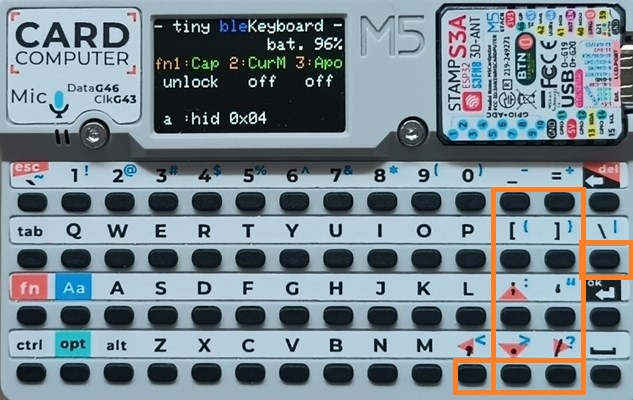
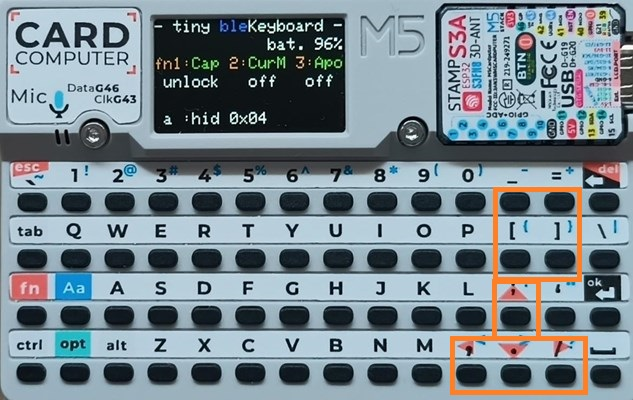
v102

Changed region(s): [[0.6904, 0.45, 1.0, 0.99]]

diff --git a/src/main.cpp b/src/main.cpp
@@ -1,7 +1,7 @@
 // --------------------------------------------------------
-//  *** tiny bleKeyboard ***
+//  *** tiny bleKeyboard ***     by NoRi
 //  bluetooth keyboard software for Cardputer
-//   2025-06-07 by NoRi
+//   2025-06-08  v102
 // https://github.com/NoRi-230401/tiny-bleKeyboard-Cardputer
 //  MIT License
 // --------------------------------------------------------
@@ -92,7 +92,7 @@ static bool warnDispFlag = true;
 static uint8_t consecutiveLowBatteryCount = 0;
 static unsigned long lowBatteryWarnStartTimeMs = 0;
 const uint8_t LOW_BATTERY_CONSECUTIVE_READINGS = 3;
-const uint8_t LOW_BATTERY_LEVEL_THRESHOLD = 10;  // % : define LOW BATTERY lvl
+const uint8_t LOW_BATTERY_LEVEL_THRESHOLD = 10; // % : define LOW BATTERY lvl
 
 // --- hid key-code define ----
 const uint8_t HID_UPARROW = 0x52;
@@ -124,7 +124,9 @@ const std::map<uint8_t, uint8_t> fnKeyExclusiveMappings = {
     {0x24, HID_F7},     // '7' -> F7
     {0x25, HID_F8},     // '8' -> F8
     {0x26, HID_F9},     // '9' -> F9
-    {0x27, HID_F10}     // '0' -> F10
+    {0x27, HID_F10},    // '0' -> F10
+    {0x31, HID_INS},    // '\' -> Insert
+    {0x34, HID_PRINTSC} // ''' -> Print Screen
 };
 
 // generalNavigationMappings: Mappings used in combination with Fn key (if not in exclusive) or in cursor mode
@@ -136,9 +138,7 @@ const std::map<uint8_t, uint8_t> generalNavigationMappings = {
     {0x2d, HID_HOME},       // '-' -> Home
     {0x2f, HID_END},        // '[' -> End
     {0x2e, HID_PAGEUP},     // '=' -> Page Up
-    {0x30, HID_PAGEDOWN},   // ']' -> Page Down
-    {0x31, HID_INS},        // '\' -> Insert
-    {0x34, HID_PRINTSC}     // ''' -> Print Screen
+    {0x30, HID_PAGEDOWN}    // ']' -> Page Down
 };
 // --------------------------------------
 
@@ -151,7 +151,6 @@ const int COL_CURSORMODE = 10;           // "CurM" display start position
 const int COL_APO = 15;                  // "Apo" display start position
 const int COL_BATVAL = 16;               // Battery value display start position
 const int WIDTH_BATVAL_LEN = 3;          // Battery value display length
-
 
 void setup()
 {
@@ -925,7 +924,6 @@ bool rdNVS(const char *title, uint8_t &data)
   return false;
 }
 
-
 enum PowerSaveFSM
 {
   PS_NORMAL,
@@ -959,7 +957,7 @@ void powerSaveAndDisp()
     {
       psState = PS_LOW_BATTERY_WARN;
       lowBatteryWarnStartTimeMs = currentTime;
-      warnDispFlag = true; // To show message first
+      warnDispFlag = true;                              // To show message first
       M5Cardputer.Display.setBrightness(BRIGHT_NORMAL); // Ensure warning is visible
       M5Cardputer.Display.setTextColor(TFT_YELLOW, TFT_BLACK);
       // -------"01234567890123456789"--
@@ -976,7 +974,8 @@ void powerSaveAndDisp()
     else
     {
       // Blinking logic for "LOW BATTERY !!"
-      if (currentTime >= prev_warn_disp_tm + WARN_BLINK_INTERVAL_MS) {
+      if (currentTime >= prev_warn_disp_tm + WARN_BLINK_INTERVAL_MS)
+      {
         prev_warn_disp_tm = currentTime;
         warnDispFlag = !warnDispFlag;
         M5Cardputer.Display.setTextColor(TFT_YELLOW, TFT_BLACK);
@@ -1052,7 +1051,7 @@ void powerSaveAndDisp()
 
 void dispBatteryLevel()
 {
-  
+
   // Line1 : battery level display
   //---- 01234567890123456789---
   // L1_"            bat.100%"--
@@ -1069,11 +1068,15 @@ void dispBatteryLevel()
   bleKey.setBatteryLevel(batLvl); // send battery level via Bluetooth
 
   // Update consecutive low battery count
-  if (batLvl <= LOW_BATTERY_LEVEL_THRESHOLD) {
-    if (consecutiveLowBatteryCount < LOW_BATTERY_CONSECUTIVE_READINGS) { // Avoid overflow if already at max
-        consecutiveLowBatteryCount++;
+  if (batLvl <= LOW_BATTERY_LEVEL_THRESHOLD)
+  {
+    if (consecutiveLowBatteryCount < LOW_BATTERY_CONSECUTIVE_READINGS)
+    { // Avoid overflow if already at max
+      consecutiveLowBatteryCount++;
     }
-  } else {
+  }
+  else
+  {
     consecutiveLowBatteryCount = 0; // Reset if battery level is acceptable
   }
 }

diff --git a/README_jp.md b/README_jp.md
@@ -3,6 +3,16 @@
 
 # Cardputer用 Bluetoothキーボード 取扱説明書
 
+## 0. 変更履歴
+
+*   v101 2025-06-07
+    *   initial release
+*   v102 2025-06-08 
+    *   Cursor Moving Modeから　`Insert`, `PrintScreen` Keyを削除
+
+---
+
+
 ## 1. はじめに
 
 このソフトウェア(`tiny-bleKeyboard`)は、M5Stack CardputerをBluetoothキーボードとして使用するためのものです。
@@ -143,8 +153,6 @@ Fnキーと特定のキーを同時に押すことで、以下の特殊機能を
 | [ (左角括弧)    | End            |
 | = (イコール)    | Page Up        |
 | ] (右角括弧)    | Page Down      |
-| \ (バックスラッシュ) | Insert         |
-| ' (アポストロフィ) | Print Screen   |
 
 ![カーソル移動モード時の割当キー](images/04a-cardputer-gazo.jpg)<br>
 ＊カーソル移動モード時の割当キー

diff --git a/README.md b/README.md
@@ -3,6 +3,15 @@
 
 # Bluetooth Keyboard for Cardputer User Manual
 
+## 0.Change history
+
+*   v101 2025-06-07
+    * initial release
+*   v102 2025-06-08
+    * Removed `Insert` and `PrintScreen` Keys from Cursor Movement Mode
+---
+
+
 ## 1. Introduction
 
 This software (`tiny-bleKeyboard`) is for using the M5Stack Cardputer as a Bluetooth keyboard.
@@ -142,8 +151,6 @@ When cursor movement mode is on (the `Fn` key is not pressed), the following key
 | [ (Left Bracket)| End            |
 | = (Equals)    | Page Up        |
 | ] (Right Bracket)| Page Down      |
-| \ (Backslash) | Insert         |
-| ' (Apostrophe)| Print Screen   |
 
 ![mapping keys in cursor movement mode ](images/04a-cardputer-gazo.jpg)<br>
 ＊mapping keys in cursor movement mode
